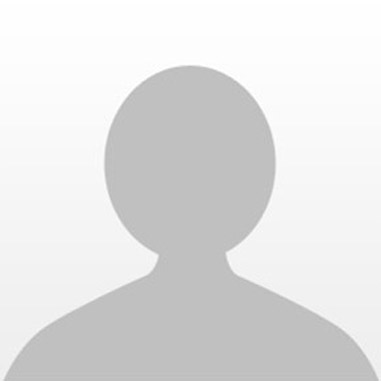
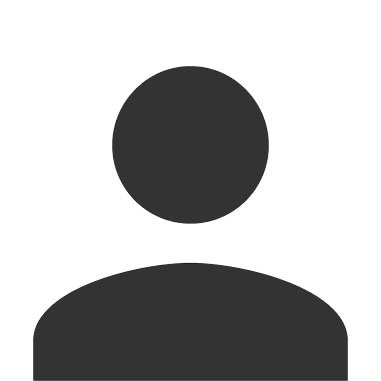
[evo]#11135 style one child and get children photo

diff --git a/css/widgets.scss b/css/widgets.scss
@@ -332,58 +332,65 @@
 
 .logbook-widget{
 
-    .logbook-children{
-        padding: 0 15px;
-        ul{
-            height: 90px;
-            margin: 0;
+    ul{
+        height: 90px;
+        margin: 0;
+        padding: 0;
+        overflow: hidden;
+        overflow-x: auto;
+        white-space: nowrap;
+    }
+    .avatar{
+        display: inline-block;
+        overflow: hidden;
+        margin: 8px 5px 0;
+        font-size: 12px;
+        padding: 0;
+        list-style: none;
+        figure{
+            width: 55px;
+            height: 55px;
+            margin: 0 auto;
             padding: 0;
+            border-radius: 50%;
+            opacity: 0.3;
             overflow: hidden;
-            overflow-x: auto;
-            white-space: nowrap;
-        }
-        .avatar{
-            display: inline-block;
-            overflow: hidden;
-            margin: 8px 5px 0;
-            font-size: 12px;
-            padding: 0;
-            list-style: none;
-            figure{
+            border: 1px solid $medium-grey;
+            @include run-transition(all)
+
+            img{
                 width: 55px;
                 height: 55px;
-                margin: 0 auto;
-                padding: 0;
-                background: $darkest-grey;
-                border-radius: 50%;
-                opacity: 0.3;
+            }
+            & + div{
+                text-align: center;
+                color: $disable-grey;
                 @include run-transition(all)
-
-                i{
-                    display: block;
-                    width: 55px;
-                    height: 55px;
-                    line-height: normal;
-                    text-align: center;
-                    &:before{
-                        color: $white;
-                        font-size: 21px;
-                        vertical-align: middle;
-                    }
-                }
-                & + div{
-                    text-align: center;
-                    color: $disable-grey;
-                    @include run-transition(all)
-                }
             }
         }
-        .avatar.selected, .avatar:hover{
-            figure{
-                opacity: 1;
-                & + div{
-                    color: $black;
-                }
+    }
+    .avatar.selected, .avatar:hover{
+        figure{
+            opacity: 1;
+            & + div{
+                color: $black;
+            }
+        }
+    }
+
+    .logbook-children, .logbook-child{
+        padding: 0 15px;
+    }
+    .logbook-child{
+        figure{
+            float: left;
+            margin-left: 15px;
+            & + div{
+                float: left;
+                line-height: 55px;
+                font-size: 16px;
+                margin-left: 15px;
+                font-weight: bold;
             }
         }
     }
